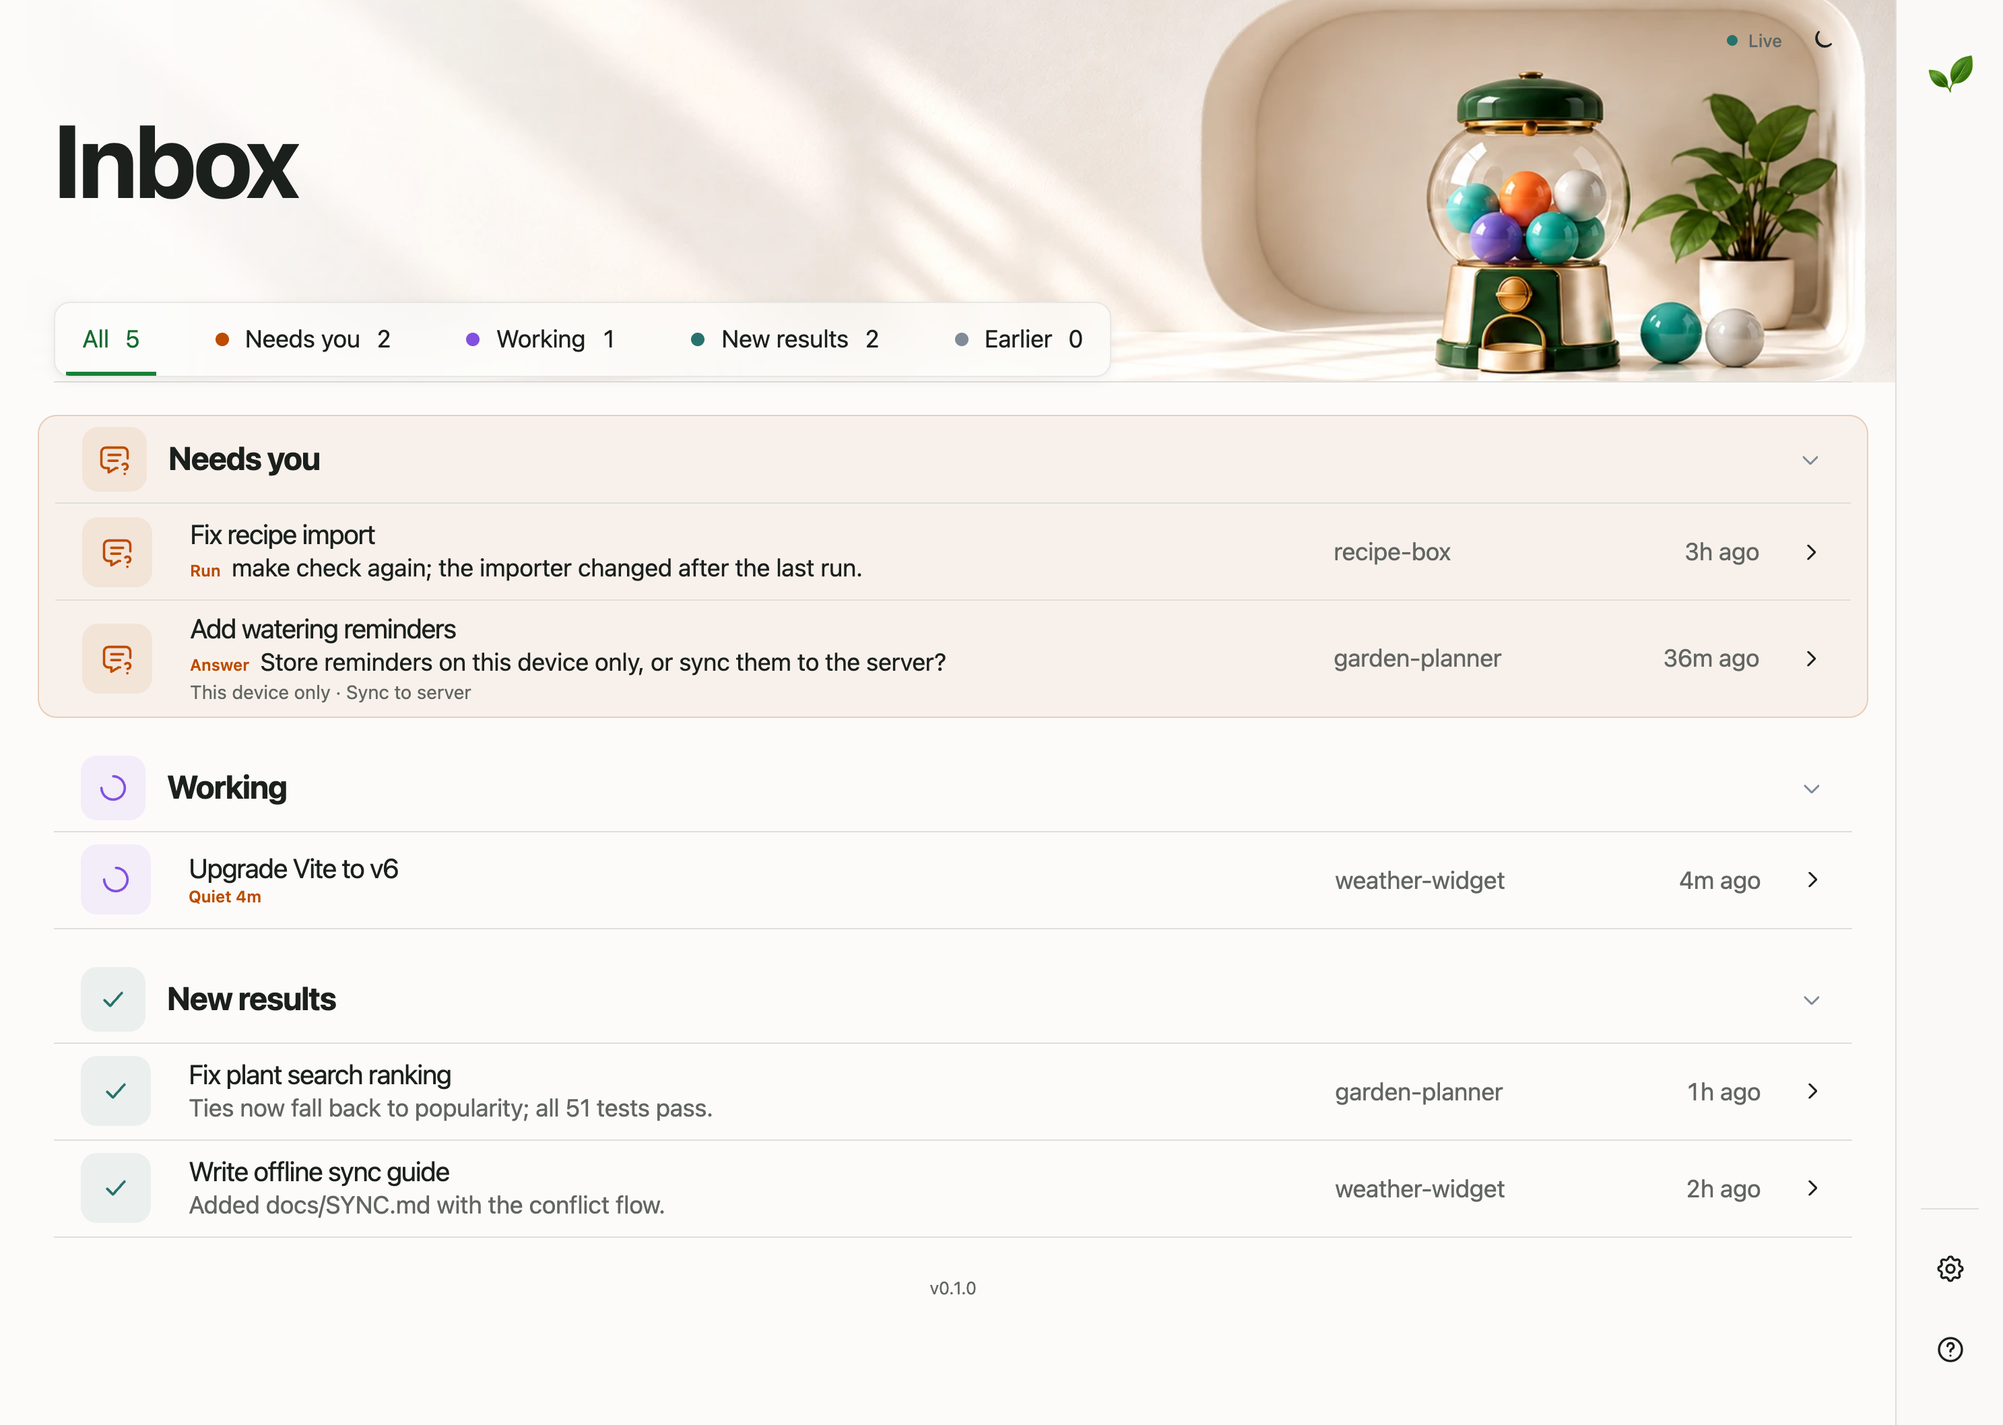
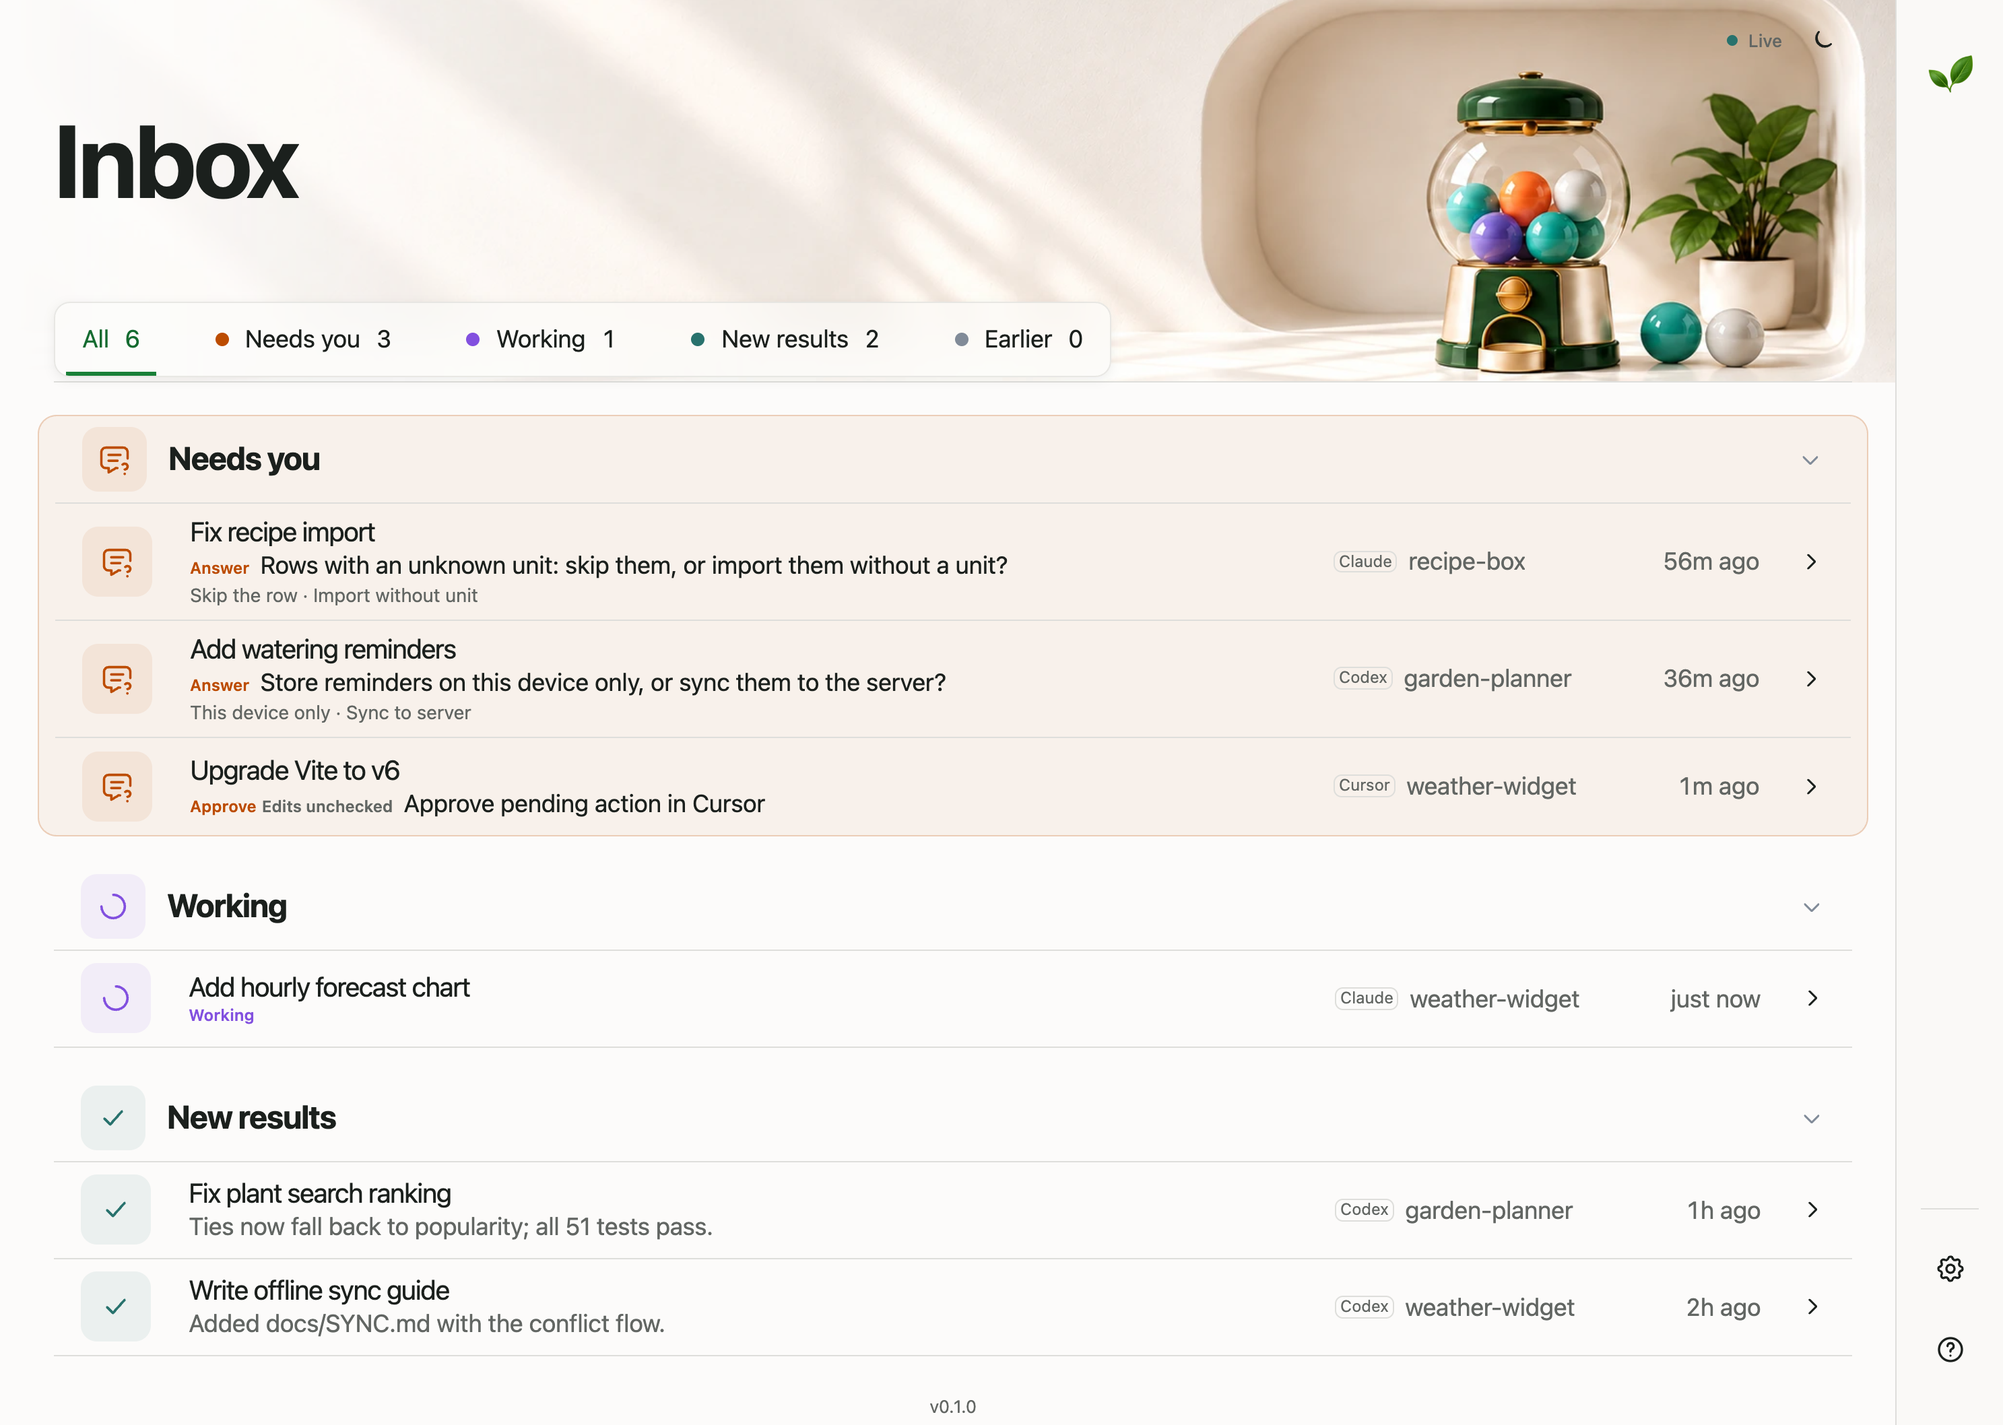
docs(screenshots): demo inbox mixes Codex, Claude Code and Cursor chats
The README demo now shows all three apps: a Codex chat asking a question,
a Claude Code chat asking a question and one working, a Cursor chat blocked
on "Approve pending action in Cursor", and finished Codex chats with
passing checks. design_fixture.py serves the same mix.

- The demo server now passes temporary --claude-home, --cursor-home and
  --cursor-user-dir, so screenshots can never capture real Claude Code or
  Cursor chats (the CLI defaults point at the real homes).
- New --cursor-user-dir CLI flag for the folder holding Cursor's
  state.vscdb.
- demo.gif waits for the row by its `codex:<id>` key (rows are keyed by
  harness since phase 3B) and fails after 30s instead of looping forever.

diff --git a/scripts/readme_screenshots.py b/scripts/readme_screenshots.py
@@ -1,4 +1,4 @@
-"""Render README screenshots from a made-up Codex home, so no real chat content is captured.
+"""Render README screenshots from made-up Codex, Claude Code and Cursor homes, so no real chat content is captured.
 
 Run with `make screenshots`. Needs Google Chrome; Playwright comes from `uvx --with playwright`.
 """
@@ -9,6 +9,7 @@ import base64
 import json
 import os
 import socket
+import sqlite3
 import subprocess
 import sys
 import tempfile
@@ -108,6 +109,126 @@ class Chat:
 ANSWER_RECORDS = 3
 
 
+def _touch(path: Path, minutes_ago: float) -> None:
+    stamp = (NOW - timedelta(minutes=minutes_ago)).timestamp()
+    os.utime(path, (stamp, stamp))
+
+
+class ClaudeChat:
+    """A made-up Claude Code transcript (`<home>/projects/<slug>/<id>.jsonl`)."""
+
+    def __init__(self, number: int, title: str, project: str, started: float) -> None:
+        self.id = f"c1a0{number:04x}-0000-4000-8000-{number:012x}"
+        self.title, self.project, self.clock, self.tools = title, project, started, 0
+        self.records: list[dict] = [{"type": "custom-title", "customTitle": title, "sessionId": self.id}]
+
+    def _add(self, kind: str, **fields: object) -> None:
+        self.clock -= 0.5
+        self.records.append({"type": kind, "timestamp": at(self.clock), "sessionId": self.id, "cwd": f"/workspace/{self.project}",
+                             "gitBranch": "main", "version": "2.1.0", "isSidechain": False, **fields})
+
+    def _assistant(self, block: dict, stop: str = "tool_use") -> None:
+        self.tools += 1
+        self._add("assistant", effort="high", message={
+            "model": "claude-opus-4-5", "id": f"msg{self.tools}", "role": "assistant", "content": [block], "stop_reason": stop,
+            "usage": {"input_tokens": 1_200, "cache_creation_input_tokens": 2_400, "cache_read_input_tokens": 38_000, "output_tokens": 900}})
+
+    def _tool(self, name: str, arguments: dict, result: str | None = "", error: bool = False) -> ClaudeChat:
+        self._assistant({"type": "tool_use", "id": f"tool{self.tools}", "name": name, "input": arguments})
+        if result is not None:
+            self._add("user", message={"role": "user", "content": [
+                {"type": "tool_result", "tool_use_id": f"tool{self.tools - 1}", "content": result, "is_error": error}]})
+        return self
+
+    def ask(self, prompt: str) -> ClaudeChat:
+        self._add("user", message={"role": "user", "content": prompt})
+        return self
+
+    def think(self, text: str) -> ClaudeChat:
+        self._assistant({"type": "thinking", "thinking": text, "signature": "demo"})
+        return self
+
+    def run(self, command: str, error: bool = False) -> ClaudeChat:
+        return self._tool("Bash", {"command": command, "description": "Run checks"}, "FAILED" if error else "ok", error)
+
+    def edit(self, *paths: str) -> ClaudeChat:
+        for path in paths:
+            self._tool("Edit", {"file_path": f"/workspace/{self.project}/{path}", "old_string": "a", "new_string": "b"})
+        return self
+
+    def question(self, title: str, options: list[str]) -> ClaudeChat:
+        """AskUserQuestion with no answer yet: the chat waits on the user."""
+        return self._tool("AskUserQuestion", {"questions": [{"question": title, "header": "Choice", "multiSelect": False,
+                                                             "options": [{"label": o, "description": o} for o in options]}]}, None)
+
+    def write(self, home: Path) -> Path:
+        folder = home / "projects" / f"-workspace-{self.project}"
+        folder.mkdir(parents=True, exist_ok=True)
+        path = folder / f"{self.id}.jsonl"
+        path.write_text("".join(json.dumps(record) + "\n" for record in self.records), encoding="utf-8")
+        _touch(path, self.clock)
+        return path
+
+
+class CursorChat:
+    """A made-up Cursor agent transcript plus its `composerHeaders` row."""
+
+    def __init__(self, number: int, title: str, project: str, started: float, *, approval: bool = False) -> None:
+        self.id = f"c0a5{number:04x}-0000-4000-8000-{number:012x}"
+        self.title, self.project, self.started, self.approval = title, project, started, approval
+        self.records: list[dict] = []
+
+    def ask(self, prompt: str) -> CursorChat:
+        local = (NOW - timedelta(minutes=self.started)).strftime("%A, %b %d, %Y, %I:%M %p")
+        self.records.append({"role": "user", "message": {"content": [
+            {"type": "text", "text": f"<timestamp>{local} (UTC+0)</timestamp>\n<user_query>\n{prompt}\n</user_query>"}]}})
+        return self
+
+    def say(self, text: str, *tools: tuple[str, dict]) -> CursorChat:
+        content = [{"type": "text", "text": text}] + [{"type": "tool_use", "name": name, "input": args} for name, args in tools]
+        self.records.append({"role": "assistant", "message": {"content": content}})
+        return self
+
+    def write(self, home: Path, database: sqlite3.Connection, minutes_ago: float) -> Path:
+        folder = home / "projects" / f"workspace-{self.project}" / "agent-transcripts" / self.id
+        folder.mkdir(parents=True, exist_ok=True)
+        path = folder / f"{self.id}.jsonl"
+        path.write_text("".join(json.dumps(record) + "\n" for record in self.records), encoding="utf-8")
+        _touch(path, minutes_ago)
+        millis = lambda minutes: int((NOW - timedelta(minutes=minutes)).timestamp() * 1000)  # noqa: E731
+        cwd = f"/workspace/{self.project}"
+        value = {"composerId": self.id, "name": self.title, "createdAt": millis(self.started), "lastUpdatedAt": millis(minutes_ago),
+                 "hasBlockingPendingActions": self.approval, "workspaceIdentifier": {"id": "demo", "uri": {"fsPath": cwd, "scheme": "file"}}}
+        database.execute("INSERT INTO composerHeaders VALUES (?, 'demo', ?, ?, 0, 0, ?)",
+                         (self.id, value["createdAt"], value["lastUpdatedAt"], json.dumps(value)))
+        return path
+
+
+def demo_other_chats() -> tuple[list[ClaudeChat], list[tuple[CursorChat, float]]]:
+    """One Claude Code chat asking a question, one working, and a Cursor chat blocked on an approval."""
+    claude = [
+        ClaudeChat(1, "Fix recipe import", "recipe-box", 60)
+        .ask("Recipe import fails on the new CSV header.")
+        .think("Comparing the old and new header rows")
+        .edit("app/recipes/importer.py", "tests/test_importer.py")
+        .run("uv run pytest -q tests/test_importer.py")
+        .question("Rows with an unknown unit: skip them, or import them without a unit?", ["Skip the row", "Import without unit"]),
+        ClaudeChat(2, "Add hourly forecast chart", "weather-widget", 3)
+        .ask("Add an hourly chart to the forecast card.")
+        .think("Reading the forecast card layout")
+        .edit("frontend/src/ForecastCard.tsx")
+        .run("npm test -- ForecastCard"),
+    ]
+    cursor = [
+        (CursorChat(1, "Upgrade Vite to v6", "weather-widget", 20, approval=True)
+         .ask("Upgrade Vite to v6 and fix anything that breaks.")
+         .say("Updating the config for Vite 6.", ("StrReplace", {"path": "/workspace/weather-widget/frontend/vite.config.ts",
+                                                                  "old_string": "a", "new_string": "b"}))
+         .say("Installing the new version.", ("Shell", {"command": "npm install vite@6", "description": "Upgrade Vite"})), 1),
+    ]
+    return claude, cursor
+
+
 def demo_chats(reminders_started: float = 40) -> list[Chat]:
     return [
         Chat(1, "Add watering reminders", "garden-planner", reminders_started)
@@ -140,17 +261,6 @@ def demo_chats(reminders_started: float = 40) -> list[Chat]:
                 "**Recap:** Search ranks exact name prefixes first and breaks ties by popularity, "
                 "with tests for both and the rules written up in docs/SEARCH.md.\n\n"
                 "**Next step:** none."),
-        Chat(3, "Fix recipe import", "recipe-box", 180)
-        .ask("Recipe import fails on the new CSV header.")
-        .run("make check")
-        .edit("app/recipes/importer.py")
-        .answer("**Outcome:** The importer accepts both header formats.\n\n"
-                "**Next step:** run: `make check` again; the importer changed after the last run."),
-        Chat(4, "Upgrade Vite to v6", "weather-widget", 6)
-        .ask("Upgrade Vite to v6 and fix anything that breaks.")
-        .think("**Reading the Vite 6 migration notes**")
-        .edit("frontend/package.json", "frontend/vite.config.ts")
-        .run("npm run build"),
         Chat(5, "Write offline sync guide", "weather-widget", 150)
         .ask("Document how the outbox handles conflicts.")
         .edit("docs/SYNC.md")
@@ -187,8 +297,8 @@ body { font: 13px/1.5 -apple-system, system-ui, sans-serif; color: #1d1d1f; back
 .pane img { width: 420px; display: block; }
 </style></head><body><div class="window">
 <div class="side"><div class="lights"><i style="background:#ff5f57"></i><i style="background:#febc2e"></i><i style="background:#28c840"></i></div>
-<b>Codex</b><p>New chat</p><h6>Projects</h6><p>garden-planner</p><p>recipe-box</p><p>weather-widget</p>
-<h6>Recents</h6><p class="on">Add watering reminders</p><p>Upgrade Vite to v6</p><p>Fix plant search ranking</p><p>Fix recipe import</p></div>
+<b>Codex</b><p>New chat</p><h6>Projects</h6><p>garden-planner</p><p>weather-widget</p>
+<h6>Recents</h6><p class="on">Add watering reminders</p><p>Fix plant search ranking</p><p>Write offline sync guide</p></div>
 <div class="chat"><div class="bar">Add watering reminders</div><div class="log">
 <div class="me">Add watering reminders to the plant detail screen.</div>
 <div class="step">Edited 2 files · Ran make check</div>
@@ -212,6 +322,8 @@ def demo_gif(browser, base: str, chat: Chat, path: Path) -> None:
         def film(seconds: float, until: str = "") -> None:
             end = time.monotonic() + seconds
             while time.monotonic() < end or (until and not page.query_selector(until)):
+                if time.monotonic() > end + 30:
+                    sys.exit(f"demo.gif: {until} never appeared")
                 shot = Path(tmp) / f"{len(frames):04d}.png"
                 taken = time.monotonic()
                 page.screenshot(path=str(shot))
@@ -219,8 +331,9 @@ def demo_gif(browser, base: str, chat: Chat, path: Path) -> None:
 
         film(1.5)
         chat.append_held(path, ANSWER_RECORDS)
-        film(2.2, f'#sections [data-section="waiting"] .row[data-id="{chat.id}"]')
-        row = page.locator(f'.row[data-id="{chat.id}"]')
+        # Rows are keyed `<harness>:<id>`.
+        film(2.2, f'#sections [data-section="waiting"] .row[data-id="codex:{chat.id}"]')
+        row = page.locator(f'.row[data-id="codex:{chat.id}"]')
         row.hover()
         film(0.6)
         row.click()
@@ -257,17 +370,35 @@ def wait_for(url: str, server: subprocess.Popen) -> None:
     sys.exit(f"Server did not start on {url}")
 
 
+def write_demo_homes(root: Path, chats: list[Chat], held: int = 0) -> tuple[dict[str, Path], list[Path]]:
+    """Write made-up Codex, Claude Code and Cursor homes under `root`; the first Codex chat holds back `held` records."""
+    homes = {name: root / name for name in ("codex", "claude", "cursor", "cursor-user")}
+    paths = [chat.write(homes["codex"], held if index == 0 else 0) for index, chat in enumerate(chats)]
+    (homes["codex"] / "session_index.jsonl").write_text(
+        "".join(json.dumps({"id": c.id, "thread_name": c.title}) + "\n" for c in chats), encoding="utf-8")
+    claude, cursor = demo_other_chats()
+    for chat in claude:
+        chat.write(homes["claude"])
+    storage = homes["cursor-user"] / "globalStorage"
+    storage.mkdir(parents=True)
+    with sqlite3.connect(storage / "state.vscdb") as database:
+        database.execute("CREATE TABLE composerHeaders (composerId TEXT UNIQUE, workspaceId TEXT, createdAt INTEGER,"
+                         " lastUpdatedAt INTEGER, isArchived INTEGER, isSubagent INTEGER, value TEXT)")
+        for chat, minutes_ago in cursor:
+            chat.write(homes["cursor"], database, minutes_ago)
+    database.close()
+    return homes, paths
+
+
 @contextmanager
 def demo_server(chats: list[Chat], held: int = 0):
-    """Serve a made-up Codex home. The first chat holds back its last `held` records."""
+    """Serve made-up homes for all three apps; never the real ones. The first chat holds back `held` records."""
     with tempfile.TemporaryDirectory() as tmp:
-        home = Path(tmp)
-        paths = [chat.write(home, held if index == 0 else 0) for index, chat in enumerate(chats)]
-        (home / "session_index.jsonl").write_text(
-            "".join(json.dumps({"id": c.id, "thread_name": c.title}) + "\n" for c in chats), encoding="utf-8")
+        homes, paths = write_demo_homes(Path(tmp), chats, held)
         port = free_port()
-        server = subprocess.Popen([str(ROOT / ".venv" / "bin" / "yourturn"), "serve",
-                                   "--port", str(port), "--codex-home", str(home)])
+        server = subprocess.Popen([str(ROOT / ".venv" / "bin" / "yourturn"), "serve", "--port", str(port),
+                                   "--codex-home", str(homes["codex"]), "--claude-home", str(homes["claude"]),
+                                   "--cursor-home", str(homes["cursor"]), "--cursor-user-dir", str(homes["cursor-user"])])
         try:
             base = f"http://127.0.0.1:{port}"
             wait_for(base + "/", server)

diff --git a/scripts/design_fixture.py b/scripts/design_fixture.py
@@ -1,18 +1,18 @@
 """Serve the real app against disposable, synthetic design-review chats.
 
 Run: uv run python scripts/design_fixture.py --port 8788 [--full]
-Uses the same rollout fixtures as README captures; never reads real Codex chats.
+Uses the same fixtures as README captures, including the Claude Code and Cursor demo chats;
+never reads real chats.
 """
 
 from __future__ import annotations
 
 import argparse
-import json
 from pathlib import Path
 from tempfile import TemporaryDirectory
 
 import uvicorn
-from readme_screenshots import Chat
+from readme_screenshots import Chat, write_demo_homes
 
 from yourturn.app import create_app
 import yourturn.app as app_module
@@ -74,17 +74,14 @@ def main() -> None:
     if not args.full:
         app_module.Sessions = VisualSessions
     with TemporaryDirectory(prefix="your-turn-design-") as folder:
-        home = Path(folder)
         entries = chats(args.full, args.stress)
         if args.pagination:
             entries.extend(Chat(number, f"Completed task {number}", "demo-project", 4000 + number)
                            .ask("Review the task.").answer("**Outcome:** Review complete.\n\n**Next step:** none.")
                            for number in range(201, 225))
-        for chat in entries:
-            chat.write(home)
-        (home / "session_index.jsonl").write_text(
-            "".join(json.dumps({"id": chat.id, "thread_name": chat.title}) + "\n" for chat in entries), encoding="utf-8")
-        uvicorn.run(create_app(home), host="127.0.0.1", port=args.port, log_level="warning")
+        homes, _ = write_demo_homes(Path(folder), entries)
+        app = create_app(homes["codex"], claude_home=homes["claude"], cursor_home=homes["cursor"], cursor_user_dir=homes["cursor-user"])
+        uvicorn.run(app, host="127.0.0.1", port=args.port, log_level="warning")
 
 
 if __name__ == "__main__":

diff --git a/src/yourturn/cli.py b/src/yourturn/cli.py
@@ -40,6 +40,8 @@ def main(argv: list[str] | None = None) -> None:
                              default=Path(os.environ.get("CLAUDE_CONFIG_DIR", Path.home() / ".claude")))
         command.add_argument("--cursor-home", type=Path, default=Path.home() / ".cursor",
                              help="Cursor home holding projects/*/agent-transcripts (default: ~/.cursor)")
+        command.add_argument("--cursor-user-dir", type=Path, default=None,
+                             help="Cursor user data folder holding globalStorage/state.vscdb (default: per OS)")
     commands.add_parser("mcp", help="Run the stdio MCP server used by the Codex plugin")
     args = parser.parse_args(argv)
 
@@ -68,4 +70,4 @@ def main(argv: list[str] | None = None) -> None:
 
     print(f"Your Turn on http://127.0.0.1:{args.port}", flush=True)
     uvicorn.run(create_app(args.codex_home, history_days=history_days, claude_home=args.claude_home,
-                           cursor_home=args.cursor_home), host="127.0.0.1", port=args.port, log_level="warning")
+                           cursor_home=args.cursor_home, cursor_user_dir=args.cursor_user_dir), host="127.0.0.1", port=args.port, log_level="warning")
